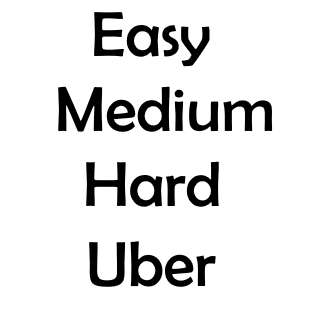
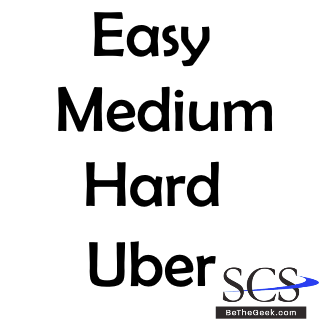
SCS branding

Changed region(s): [[0.6562, 0.8125, 1.0, 1.0], [0.8125, 0.8125, 0.8438, 0.8438], [0.7188, 0.8125, 0.75, 0.8438]]

diff --git a/index.html b/index.html
@@ -19,7 +19,8 @@
 </head>
 <body>
 	<div id="outer">
-		<canvas id="canvas" width="320" height="320" class="d-flex justify-content-center" ></canvas>
+		<canvas id="canvas" width="320" height="320" class="d-flex justify-content-center" ></canvas>p></p>
+        <a href="http://www.bethegeek.com"><img src="~/Content/Assets/img/Diglett/SCS with Big Blue.png" /></a>
 	</div>
 </body>
 </html>
